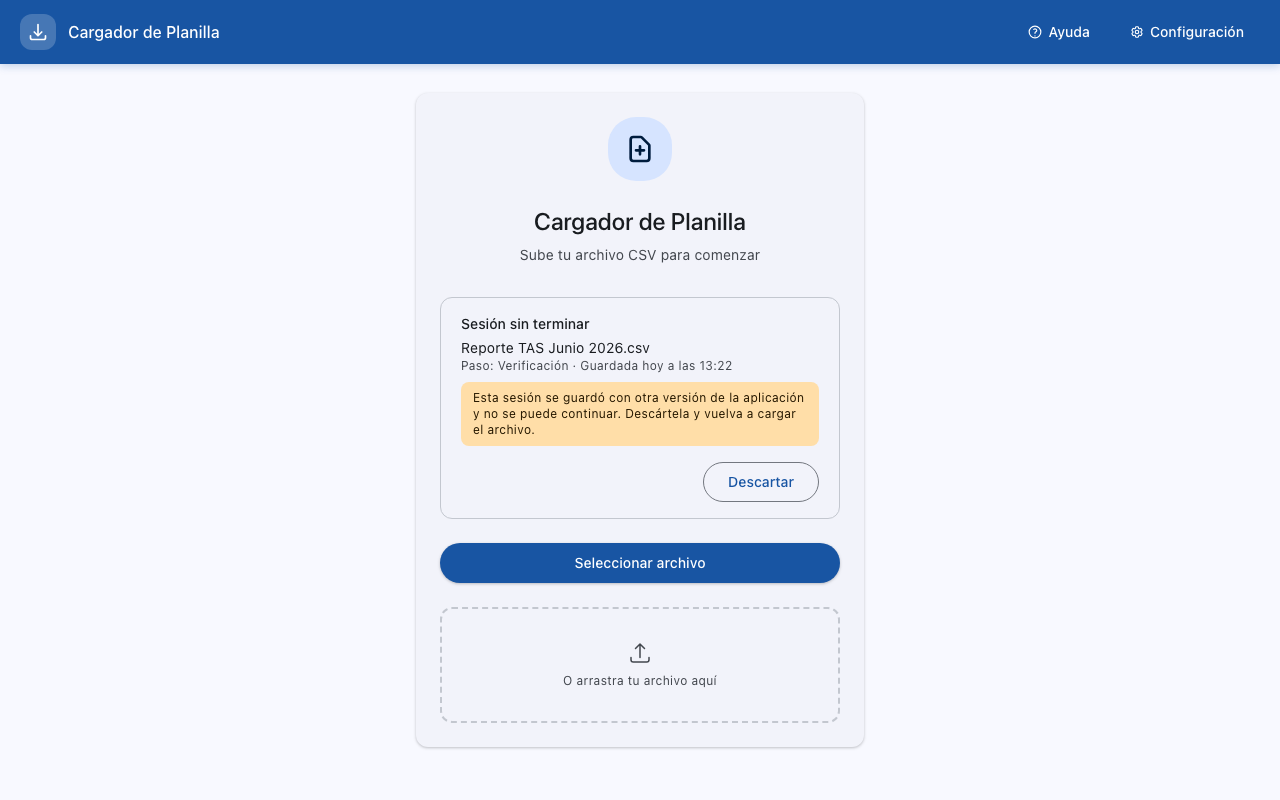
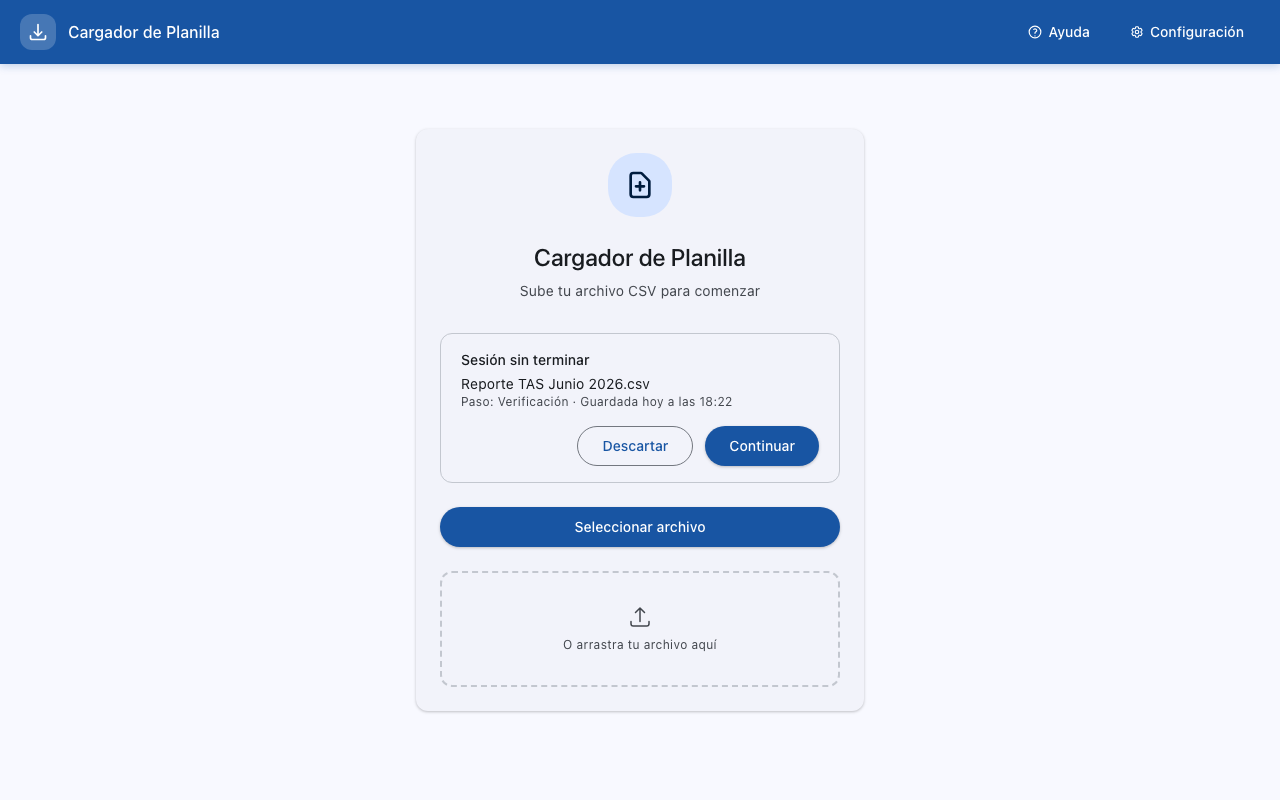
fix: the newest toast always shows and the one closest to closing goes first; manual's resume screenshot shows the resumable card again

diff --git a/frontend/src/toastStore.test.ts b/frontend/src/toastStore.test.ts
@@ -1,4 +1,4 @@
-import { describe, it, expect, beforeEach } from 'vitest';
+import { describe, it, expect, beforeEach, vi } from 'vitest';
 import { useToastStore, readingTimeMs, MIN_TOAST_MS, TOAST_MS_PER_WORD } from './toastStore';
 
 beforeEach(() => {
@@ -79,7 +79,7 @@ describe('toastStore', () => {
     expect(useToastStore.getState().toasts.map(t => t.durationMs)).toEqual([30_000, null]);
   });
 
-  it('over the limit, drops the oldest toast that closes by itself and keeps one that must stay', () => {
+  it('over the limit, drops the older toast closest to closing and keeps one that must stay', () => {
     const { showToast } = useToastStore.getState();
     showToast('Stays', 'warning', { durationMs: null });
     showToast('Second');
@@ -88,9 +88,23 @@ describe('toastStore', () => {
     expect(useToastStore.getState().toasts.map(t => t.message)).toEqual(['Stays', 'Third', 'Fourth']);
   });
 
-  it('drops the oldest when every toast must stay', () => {
+  it('keeps the close refusal over shorter notices that arrive after it', () => {
+    vi.useFakeTimers();
     const { showToast } = useToastStore.getState();
-    for (const m of ['1', '2', '3', '4']) showToast(m, 'warning', { durationMs: null });
-    expect(useToastStore.getState().toasts.map(t => t.message)).toEqual(['2', '3', '4']);
+    showToast('Stays', 'warning', { durationMs: null });
+    showToast('Refusal', 'error', { durationMs: 30_000 });
+    vi.advanceTimersByTime(1_000);
+    showToast('Saved again');
+    vi.advanceTimersByTime(1_000);
+    showToast('Other');
+    expect(useToastStore.getState().toasts.map(t => t.message)).toEqual(['Stays', 'Refusal', 'Other']);
+    vi.useRealTimers();
+  });
+
+  it('always shows the newest toast, even when every older one must stay', () => {
+    const { showToast } = useToastStore.getState();
+    for (const m of ['1', '2', '3']) showToast(m, 'warning', { durationMs: null });
+    showToast('New');
+    expect(useToastStore.getState().toasts.map(t => t.message)).toEqual(['2', '3', 'New']);
   });
 });

diff --git a/frontend/src/toastStore.ts b/frontend/src/toastStore.ts
@@ -8,6 +8,7 @@ export interface Toast {
   variant: ToastVariant;
   // Milliseconds until it closes by itself; null keeps it up until dismissed.
   durationMs: number | null;
+  shownAt: number;
 }
 
 export interface ToastOptions {
@@ -30,13 +31,17 @@ export function readingTimeMs(message: string): number {
   return Math.max(MIN_TOAST_MS, words * TOAST_MS_PER_WORD);
 }
 
-// Over the limit, the oldest toast that closes by itself goes first, so a warning that has to stay
-// up is not pushed out by later notices.
+const expiresAt = (t: Toast) => (t.durationMs === null ? Infinity : t.shownAt + t.durationMs);
+
+// Over the limit, the newest toast always shows. Of the older ones, the one closest to closing by
+// itself goes first, so the close refusal (30 s) outlives short notices and a warning that stays
+// until dismissed goes only when every older toast is one. Keep such warnings below MAX_TOASTS.
 function trim(toasts: Toast[]): Toast[] {
   const kept = [...toasts];
   while (kept.length > MAX_TOASTS) {
-    const timed = kept.findIndex(t => t.durationMs !== null);
-    kept.splice(timed === -1 ? 0 : timed, 1);
+    const older = kept.slice(0, -1);
+    const soonest = older.reduce((best, t, i) => (expiresAt(t) < expiresAt(older[best]) ? i : best), 0);
+    kept.splice(soonest, 1);
   }
   return kept;
 }
@@ -48,7 +53,7 @@ export const useToastStore = create<ToastStore>(set => ({
   showToast: (message, variant = 'success', options = {}) => {
     const id = nextId++;
     const durationMs = options.durationMs === undefined ? readingTimeMs(message) : options.durationMs;
-    set(s => ({ toasts: trim([...s.toasts, { id, message, variant, durationMs }]) }));
+    set(s => ({ toasts: trim([...s.toasts, { id, message, variant, durationMs, shownAt: Date.now() }]) }));
     return id;
   },
   dismissToast: (id) =>

diff --git a/frontend/src/draftShape.test.ts b/frontend/src/draftShape.test.ts
@@ -3,7 +3,7 @@ import { existsSync, mkdtempSync, readFileSync, rmSync, writeFileSync } from 'no
 import { tmpdir } from 'node:os';
 import { resolve } from 'node:path';
 import ts from 'typescript';
-import { DRAFT_UI_VERSION } from './tasDraft';
+import { DRAFT_UI_VERSION } from './draftVersion';
 
 // A resumed draft is spread into the store as-is, so a changed TasSnapshot type would resume
 // half-filled. This pins the saved shape to DRAFT_UI_VERSION: changing it means bumping the version.
@@ -132,7 +132,7 @@ describe('saved draft shape', () => {
       writeFileSync(written, actual.join('\n') + '\n');
       expect.fail(result === 'grew'
         ? `A literal set grew (actual shape in ${written}). Old drafts still fit: replace draft-shape/ui-shape-v${DRAFT_UI_VERSION}.txt with it, no version bump.`
-        : `The saved draft's shape changed (actual shape in ${written}). Bump DRAFT_UI_VERSION in tasDraft.ts and save ` +
+        : `The saved draft's shape changed (actual shape in ${written}). Bump DRAFT_UI_VERSION in draftVersion.ts and save ` +
           `that file as draft-shape/ui-shape-v${DRAFT_UI_VERSION + 1}.txt; keep the older files.`);
     }
   }, 30_000);

diff --git a/frontend/src/tasDraft.ts b/frontend/src/tasDraft.ts
@@ -2,6 +2,7 @@ import axios from 'axios';
 import { useTasStore, tasInitialState, type TasStore } from './tasStore';
 import { saveDraft, deleteDraft } from './tasApi';
 import { useToastStore } from './toastStore';
+import { DRAFT_UI_VERSION } from './draftVersion';
 import { clearLocalCopy, saveLocalSnapshot, setLocalCopySubmitted } from './localCopy';
 import { MONTH_NAMES_ES } from './dateNames';
 import type { DraftSummary, DraftView, TasPeriod, TasView } from './tasTypes';
@@ -14,9 +15,6 @@ export const DRAFT_SAVE_FAILED_MESSAGE =
   'No se pudo guardar el avance. Se reintentará automáticamente; mientras tanto, no cierre la aplicación.';
 export const DRAFT_SAVE_RECOVERED_MESSAGE = 'El avance se guardó nuevamente.';
 
-// Bump when the saved shape of TasSnapshot changes (draftShape.test.ts fails until you do):
-// a draft from another version is then offered only to discard, never resumed half-filled.
-export const DRAFT_UI_VERSION = 2;
 
 const SAVABLE_VIEWS: ReadonlySet<TasView> = new Set<TasView>(['inactiveReview', 'verification', 'review']);
 

diff --git a/frontend/e2e/capture-screenshots.spec.ts b/frontend/e2e/capture-screenshots.spec.ts
@@ -1,5 +1,6 @@
 import { test, type Page } from '@playwright/test';
 import * as mock from './mock-data';
+import { DRAFT_UI_VERSION } from '../src/draftVersion';
 
 const SCREENSHOT_DIR = '../docs/screenshots';
 
@@ -484,14 +485,14 @@ test('19 - backend error', async ({ page }) => {
 
 const DRAFT_SUMMARY = {
   fileName: 'Reporte TAS Junio 2026.csv', view: 'verification', periodLabel: 'Junio 2026 - Quincena 1',
-  savedAt: new Date().toISOString(), partialSubmit: false, resumable: true, uiVersion: 1, jobActive: false,
+  savedAt: new Date().toISOString(), partialSubmit: false, resumable: true, uiVersion: DRAFT_UI_VERSION, jobActive: false,
 };
 
 test('20 - resume an unfinished session', async ({ page }) => {
   await mockHealthEndpoints(page);
   await mockDraftSummary(page, DRAFT_SUMMARY);
   await waitForApp(page);
-  await page.waitForSelector('text=Sesión sin terminar');
+  await page.getByRole('button', { name: 'Continuar' }).waitFor();
   await screenshot(page, '20-resume-draft.png');
 });
 

diff --git a/frontend/src/App.tsx b/frontend/src/App.tsx
@@ -6,8 +6,8 @@ import AlertMessage from './components/ui/AlertMessage';
 import { uploadTasFile, getDraftSummary, resumeDraft, deleteDraft } from './tasApi';
 import {
   applySnapshot, canResume, discardDraftSession, formatPeriodLabel, isDraftView, localSnapshotOf, startDraftAutosave,
-  DRAFT_UI_VERSION,
 } from './tasDraft';
+import { DRAFT_UI_VERSION } from './draftVersion';
 import { clearLocalCopy, dayKeysOf, fileBytes, recoverableLocalCopy, startLocalCopy, type LocalCopy } from './localCopy';
 import { rebuildFromLocalCopy } from './localRecovery';
 import { onAppCloseRequested, prepareToClose } from './appClose';

diff --git a/frontend/src/tasDraft.test.ts b/frontend/src/tasDraft.test.ts
@@ -4,6 +4,7 @@ import { useTasStore } from './tasStore';
 import { useToastStore } from './toastStore';
 import { loadLocalCopy, recoverableLocalCopy, startLocalCopy } from './localCopy';
 import type { TasSession } from './tasTypes';
+import { DRAFT_UI_VERSION } from './draftVersion';
 
 const mockSaveDraft = vi.hoisted(() => vi.fn());
 const mockDeleteDraft = vi.hoisted(() => vi.fn());
@@ -24,7 +25,6 @@ const {
   DRAFT_SAVE_DEBOUNCE_MS,
   DRAFT_SAVE_MAX_WAIT_MS,
   saveDraftNow,
-  DRAFT_UI_VERSION,
   DRAFT_SAVE_RETRY_MS,
   DRAFT_SAVE_FAILED_MESSAGE,
   DRAFT_SAVE_RECOVERED_MESSAGE,

diff --git a/frontend/src/App.test.tsx b/frontend/src/App.test.tsx
@@ -4,7 +4,7 @@ import { describe, it, expect, beforeEach, afterEach, vi } from 'vitest';
 import { render, screen, waitFor, act, fireEvent } from '@testing-library/react';
 import { useTasStore } from './tasStore';
 import { useToastStore } from './toastStore';
-import { DRAFT_UI_VERSION } from './tasDraft';
+import { DRAFT_UI_VERSION } from './draftVersion';
 import { loadLocalCopy, startLocalCopy } from './localCopy';
 import type { TasSession } from './tasTypes';
 

diff --git a/frontend/src/components/ResumeDraftCard.test.tsx b/frontend/src/components/ResumeDraftCard.test.tsx
@@ -2,7 +2,7 @@ import { describe, it, expect, vi } from 'vitest';
 import { render, screen } from '@testing-library/react';
 import ResumeDraftCard from './ResumeDraftCard';
 import { formatSavedAt } from '../formatSavedAt';
-import { DRAFT_UI_VERSION } from '../tasDraft';
+import { DRAFT_UI_VERSION } from '../draftVersion';
 
 describe('formatSavedAt', () => {
   const now = new Date(2026, 10, 16, 18, 0);

diff --git a/frontend/src/components/EmptyState.test.tsx b/frontend/src/components/EmptyState.test.tsx
@@ -1,7 +1,7 @@
 import { describe, it, expect, beforeEach, vi } from 'vitest';
 import { render, screen, fireEvent, waitFor } from '@testing-library/react';
 import EmptyState from './EmptyState';
-import { DRAFT_UI_VERSION } from '../tasDraft';
+import { DRAFT_UI_VERSION } from '../draftVersion';
 import * as isTasFileModule from '../isTasFile';
 
 vi.mock('../isTasFile');

diff --git a/frontend/src/draftVersion.ts b/frontend/src/draftVersion.ts
@@ -1,0 +1,4 @@
+// Bump when the saved shape of TasSnapshot changes (draftShape.test.ts fails until you do):
+// a draft from another version is then offered only to discard, never resumed half-filled.
+// Kept free of imports so the screenshot script can read it outside the app.
+export const DRAFT_UI_VERSION = 2;

diff --git a/docs/admin-guide.md b/docs/admin-guide.md
@@ -139,7 +139,7 @@ CREATE TABLE tas_draft (
 - It contains payroll data (employee names, scans, hours) and never leaves the machine — it lives in `%USERPROFILE%\.planilla\data` next to `carga_log`.
 - The row is replaced by every autosave, deleted when a new file is uploaded, when the user discards the session, or when a submission finishes with every row sent. A submission that ends with failed rows keeps the row and sets `partial_submit`.
 - Deleting `~/.planilla/data` (or resetting the database, see [reset-database.md](reset-database.md)) also deletes the saved session.
-- **Versions.** Each half of the draft carries a format version: `schema_version` for the backend half (`TasDraftService.SCHEMA_VERSION`) and `uiVersion` inside `ui_state` for the frontend half (`DRAFT_UI_VERSION` in `tasDraft.ts`). A row whose `schema_version` doesn't match, or that can't be read, is logged once as a `WARN` by the backend. A `uiVersion` mismatch is detected by the frontend only, so it logs nothing. Either way the row is kept, and the start screen shows it with *"Esta sesión se guardó con otra versión de la aplicación y no se puede continuar."* and offers only **Descartar**; `POST /api/tas/draft/resume` answers `409 DRAFT_OUTDATED`, and the frontend checks `uiVersion` again on the resumed payload. It never blocks startup, and a new upload replaces it.
+- **Versions.** Each half of the draft carries a format version: `schema_version` for the backend half (`TasDraftService.SCHEMA_VERSION`) and `uiVersion` inside `ui_state` for the frontend half (`DRAFT_UI_VERSION` in `draftVersion.ts`). A row whose `schema_version` doesn't match, or that can't be read, is logged once as a `WARN` by the backend. A `uiVersion` mismatch is detected by the frontend only, so it logs nothing. Either way the row is kept, and the start screen shows it with *"Esta sesión se guardó con otra versión de la aplicación y no se puede continuar."* and offers only **Descartar**; `POST /api/tas/draft/resume` answers `409 DRAFT_OUTDATED`, and the frontend checks `uiVersion` again on the resumed payload. It never blocks startup, and a new upload replaces it.
 - **Changing the saved shape.** `TasDraftShapeTest` (backend) and `draftShape.test.ts` (frontend) fingerprint the saved types against `backend/src/test/resources/tas-draft/backend-shape-v<N>.txt` and `frontend/draft-shape/ui-shape-v<N>.txt`. Adding, removing, renaming or retyping a saved field (including making it optional or nullable) fails the test until the version is bumped and a new shape file is added next to the old ones. Without the bump, a draft saved before an update would resume with the new fields at their defaults. Literal sets are recorded too and may only grow. Adding a value to a frontend literal union (a new view, flag or decision) fails the test with "A literal set grew": refresh the same shape file, no bump, because old drafts still fit. Removing or renaming one, or narrowing a plain field to literals (`string` to `'a' | 'b'`, `boolean` to `true`), fails it as a shape change and needs a bump: the frontend doesn't check literals at runtime, so an old draft would resume holding a value the new code doesn't know. Widening a literal union back to its plain type also asks for a bump, which errs on the safe side. On the backend, enum constants are not fingerprinted: a draft holding a removed constant fails to read and shows as not resumable on its own. A bump discards every draft saved by the previous version when the user updates, so ship it in a release where no session is likely to be in progress.
 - Closing the window saves first: the shell hides the window, asks the frontend to send any pending draft change and waits for it (up to 2 s), then asks the backend to shut down. The frontend stops waiting for that save after 1.5 s (`CLOSE_SAVE_TIMEOUT_MS`), so a save that failed or didn't answer in time refuses the first close with "No se pudo confirmar que el avance se guardó…"; a second close within 30 s goes ahead. The copy on the PC is already written before the save is sent, and a refused slow save still completes in the background unless the app is closed again first. That refusal stays on screen for the 30 s in which a second close goes ahead, and the autosave failure warning stays until saving works again. While a payroll submission is running the close is refused (the frontend and the backend both check, the backend answering 409 `JOB_IN_PROGRESS`): the window comes back with "Hay un envío en curso. Espere a que termine para cerrar la aplicación." A Windows logoff (or Cmd+Q on macOS) skips this sequence and can't be refused: the draft relies on its autosave, the window hides, and the shell keeps asking the backend to stop for up to 35 s (the backend's own wait for a running batch) before killing it. During a submission Windows shows that the app is preventing sign-out and may end the session sooner. Once the backend has accepted a shutdown, no new submission can start. The shutdown request is `POST /api/system/shutdown` with a per-launch secret in `X-Shutdown-Token`, passed to the backend as `PLANILLA_SHUTDOWN_TOKEN`; without the variable the endpoint returns 404. The backend closes H2 cleanly and exits; if it hasn't exited within 5 s the shell kills it. `backend-stderr.log` shows `Graceful shutdown complete` on a clean close, and the shell log says when it had to kill. Every draft write and delete still runs an H2 `CHECKPOINT`, so a crash or a forced kill loses at most an edit from the last half second (the frontend saves 0.5 s after the last change, at least every 3 s while editing, and when the page is hidden).
 
